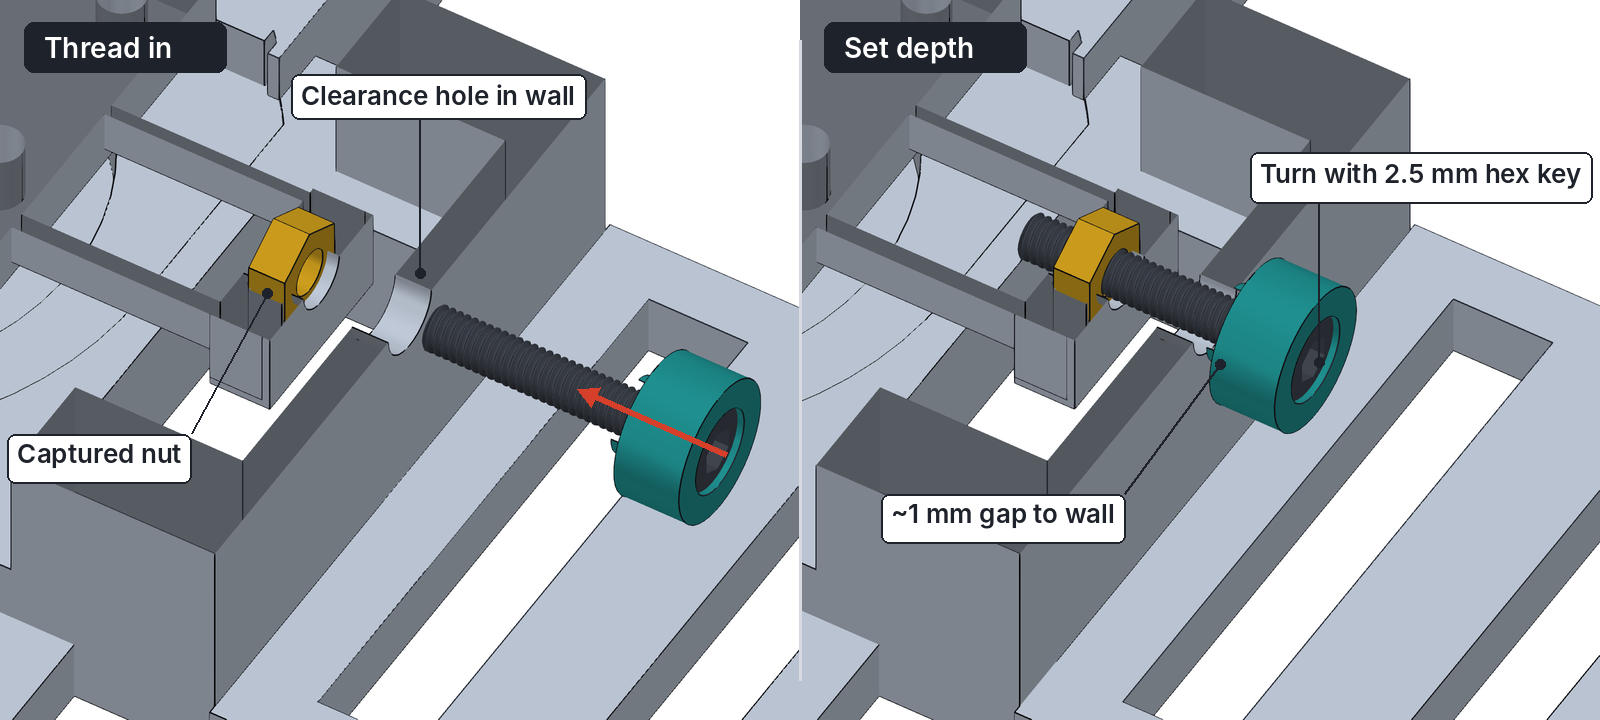
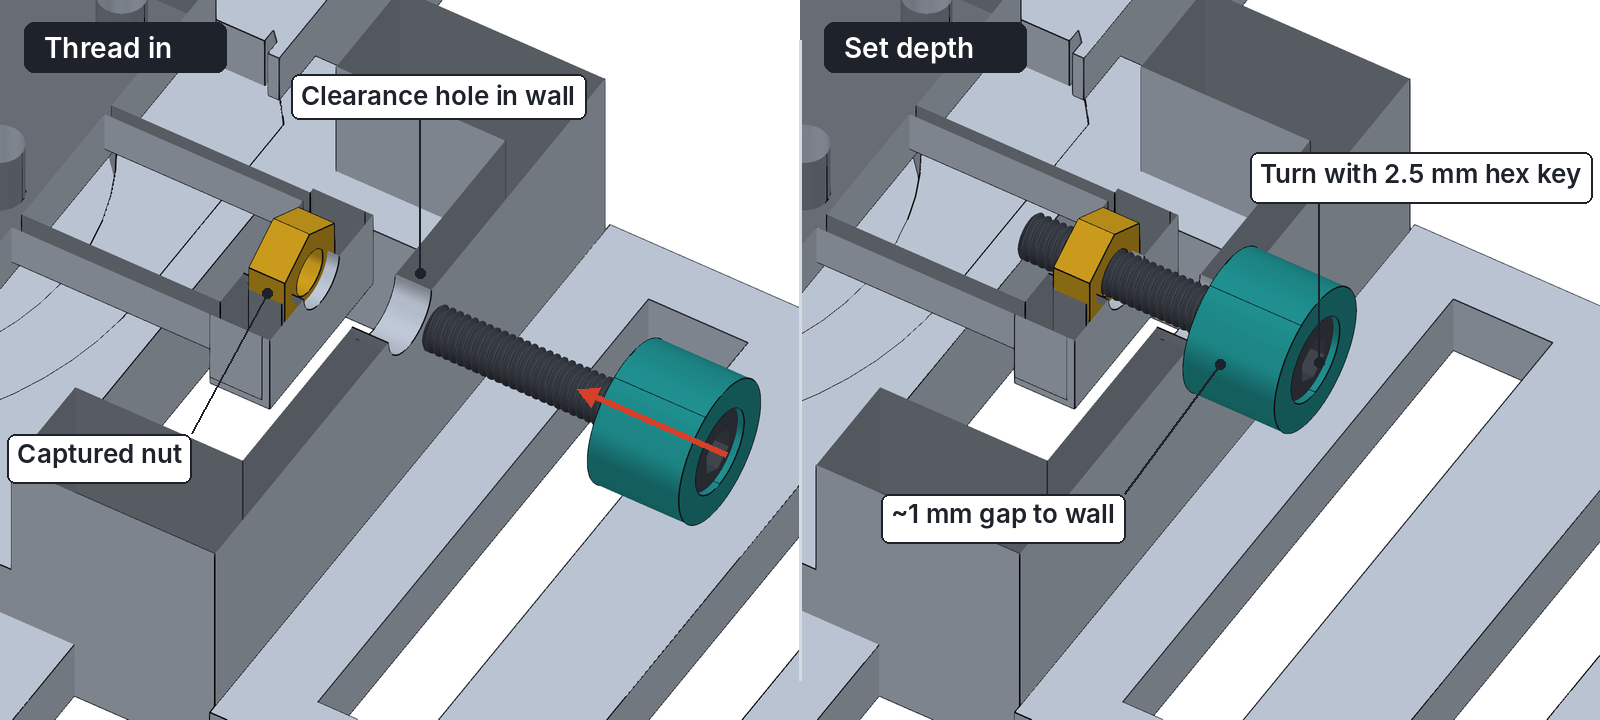
Use corrected coupler cap in assembly guide
The cap is a plain sleeve: 5.5 mm counterbore for the M3 head and a
4 mm through-hole in the closed end. All renders and the step 2 text
updated to match.

Changed region(s): [[0.3438, 0.4583, 0.4375, 0.7028], [0.7188, 0.3361, 0.8125, 0.55]]

diff --git a/ASSEMBLY.md b/ASSEMBLY.md
@@ -32,7 +32,7 @@ The X and Y axes are built the same way. Steps 1–5 show the X axis; Step 6 rep
 | Qty | Part | Notes |
 |---|---|---|
 | 1 | Stage body | One print: fixed frame, flexures and moving platform together |
-| 2 | Coupler cap | Small teal part in the images. Holds the lead-screw head. |
+| 2 | Coupler cap | Small teal sleeve in the images. Holds the lead-screw head. |
 | 2 | Coupler cup | Larger orange part. Has a D-shaped hole for the motor shaft. |
 
 ### Hardware
@@ -87,8 +87,8 @@ Each axis has a **nut housing**: a narrow slot in the moving carriage, open at t
 
 ![M3 screw going into the coupler cap](assembly/04-screw-into-cap.png)
 
-1. Hold the coupler cap with its **open (wide) end** facing you.
-2. Push the M3 × 16 screw in, **tip first**, so the shank comes out through the slotted end and the **head sits inside the cap**.
+1. Hold the coupler cap with its **open end** facing you. The cap is a sleeve with a 5.5 mm pocket for the screw head and a 4 mm hole through its closed end.
+2. Push the M3 × 16 screw in, **tip first**, so the shank comes out through the hole in the closed end and the **head sits in the pocket**.
 3. Make one of these for each axis.
 
 ## Step 3 — Thread the lead screw into the nut
